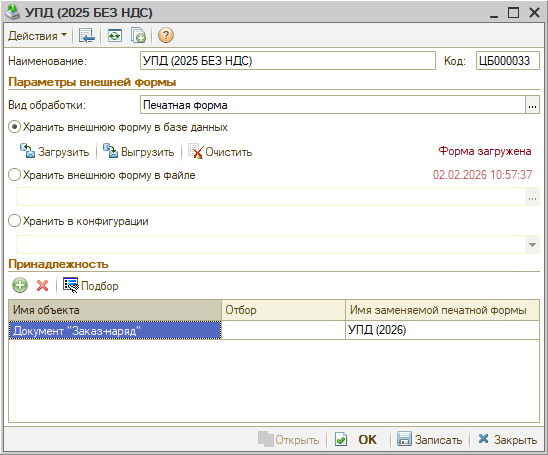
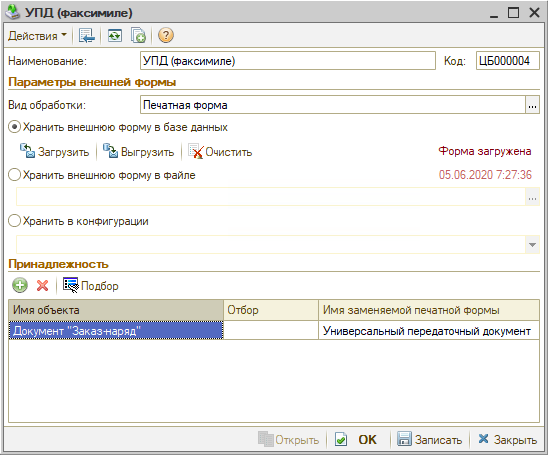
Совет «Как скрыть лишнюю печатную форму в списке» (Katya): в способ 2 – скриншот замены «Универсального передаточного документа» формой «УПД (факсимиле)» в заказ-наряде (Катя, 30.10.2026).

diff --git a/tips/5S AUTO/Администрирование/Как скрыть лишнюю печатную форму в списке/kak-skryt-lishnyuyu-pechatnuyu-formu-v-spiske.md b/tips/5S AUTO/Администрирование/Как скрыть лишнюю печатную форму в списке/kak-skryt-lishnyuyu-pechatnuyu-formu-v-spiske.md
@@ -26,7 +26,11 @@
 
 Заменить можно только встроенную форму – в списке выбора есть только встроенные печатные формы документа из этой строки. Чтобы убрать из списка внешнюю форму, используйте способ 1 или 3.
 
-Одну внешнюю форму можно привязать к нескольким документам и для каждого указать свою заменяемую форму. Например, форму **«УПД (факсимиле)»** можно привязать к документам **«Реализация товаров»**, **«Счет-фактура выданный»** и **«Заказ-наряд»**, а в заказ-наряде вывести ее вместо встроенного **«Универсального передаточного документа»**.
+В примере форма **«УПД (факсимиле)»** в заказ-наряде выводится вместо встроенного **«Универсального передаточного документа»** – он пропадает из списка печати заказ-наряда.
+
+![Карточка внешней печатной формы: замена встроенной формы в заказ-наряде](attachments/03-zamena-pechatnoy-formy.png)
+
+Одну внешнюю форму можно привязать к нескольким документам и для каждого указать свою заменяемую форму.
 
 ### 3. Пометить форму на удаление
 
